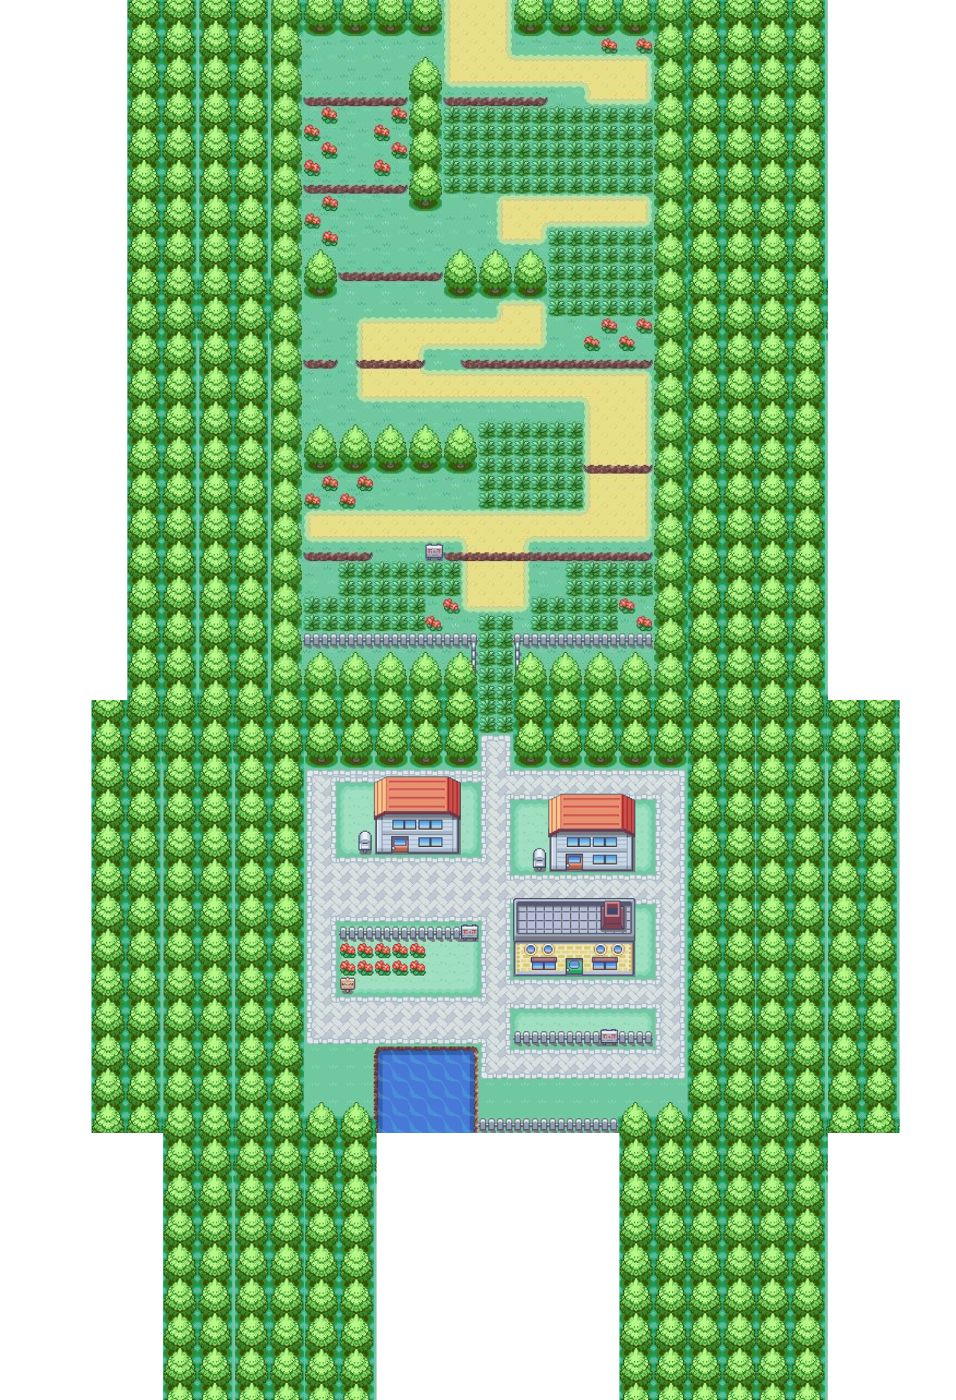
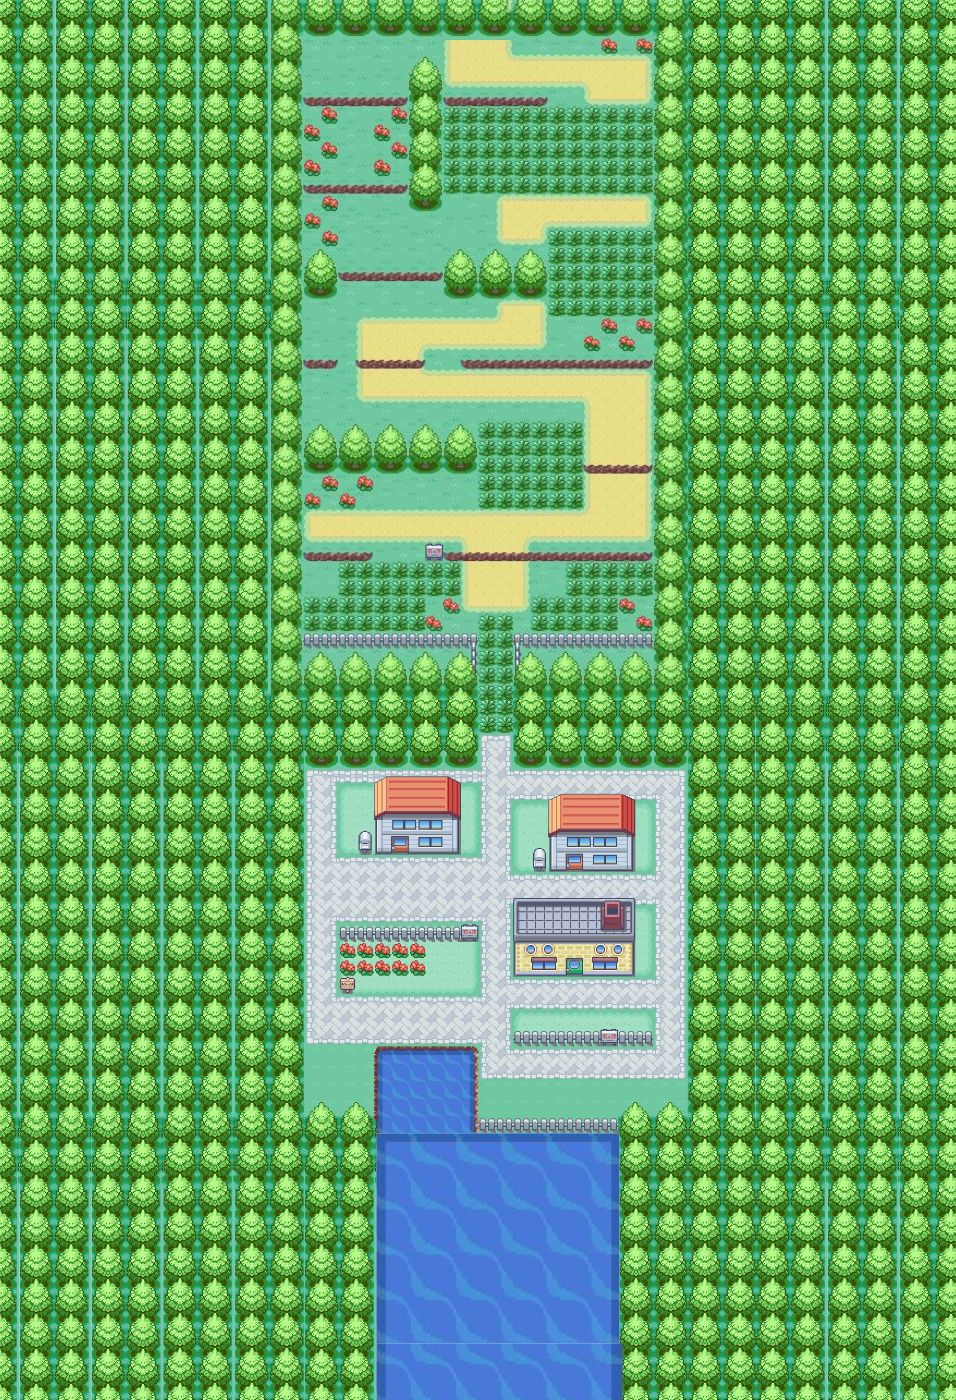
uptdate

diff --git a/player.js b/player.js
@@ -56,56 +56,56 @@ class Player {
 
 
 
-    // moveUp() {
-    //     if(this.movement.up){
-    //         this.y -= this.speed;
-    //         this.yFrame = 3;
-    //         if(this.game.counter % 5 === 0){
-    //             this.xFrame++;
-    //             this.movement.up=false;
-    //             if(this.xFrame > 3){
-    //                 this.xFrame = 0;
-    //             }
-    //         }
-    //     }
-    // }
-    // moveDown() {
-    //     if(this.movement.down){
-    //         this.y += this.speed;
-    //         this.yFrame = 0;
-    //         if(this.game.counter % 5 === 0){
-    //             this.xFrame++;
-    //             this.movement.down=false;
-    //             if(this.xFrame > 3){
-    //                 this.xFrame = 0;
-    //             }
-    //         }
-    //     }       
-    // }
-    // moveLeft() {
-    //     if(this.movement.left){
-    //         this.x -= this.speed;
-    //         this.yFrame = 1;
-    //         if(this.game.counter % 5 === 0){
-    //             this.xFrame++;
-    //             this.movement.left=false;
-    //             if(this.xFrame > 3){
-    //                 this.xFrame = 0;
-    //             }
-    //         }
-    //     }
-    // }
-    // moveRight() {
-    //     if(this.movement.right){
-    //         this.x += this.speed;
-    //         this.yFrame = 2;
-    //         if(this.game.counter % 5 === 0){
-    //             this.xFrame++;
-    //             this.movement.right=false;
-    //             if(this.xFrame > 3){
-    //                 this.xFrame = 0;
-    //             }
-    //         }
-    //     }
-    // }
+    moveUp() {
+        if(this.movement.up){
+            this.y -= this.speed;
+            this.yFrame = 3;
+            if(this.game.counter % 5 === 0){
+                this.xFrame++;
+                this.movement.up=false;
+                if(this.xFrame > 3){
+                    this.xFrame = 0;
+                }
+            }
+        }
+    }
+    moveDown() {
+        if(this.movement.down){
+            this.y += this.speed;
+            this.yFrame = 0;
+            if(this.game.counter % 5 === 0){
+                this.xFrame++;
+                this.movement.down=false;
+                if(this.xFrame > 3){
+                    this.xFrame = 0;
+                }
+            }
+        }       
+    }
+    moveLeft() {
+        if(this.movement.left){
+            this.x -= this.speed;
+            this.yFrame = 1;
+            if(this.game.counter % 5 === 0){
+                this.xFrame++;
+                this.movement.left=false;
+                if(this.xFrame > 3){
+                    this.xFrame = 0;
+                }
+            }
+        }
+    }
+    moveRight() {
+        if(this.movement.right){
+            this.x += this.speed;
+            this.yFrame = 2;
+            if(this.game.counter % 5 === 0){
+                this.xFrame++;
+                this.movement.right=false;
+                if(this.xFrame > 3){
+                    this.xFrame = 0;
+                }
+            }
+        }
+    }
 }

diff --git a/script.js b/script.js
@@ -1,9 +1,10 @@
 const canvas = document.getElementById('canvas');
 const ctx = canvas.getContext('2d');
-// ctx.translate(-350, -1100);
 
-// const scale = 1.5
-// ctx.scale(scale, scale);
+//Scale
+ctx.translate(-350, -1100);
+const scale = 1.5
+ctx.scale(scale, scale);
 
 const game = new Game(ctx, canvas, canvas.width, canvas.height);
 
@@ -12,29 +13,29 @@ game.start();
 document.addEventListener('keydown', (e) => {
     switch (e.keyCode) {
         case 38:
-           // game.player.movement.up = true;
-            //game.player.moveUp();
+           game.player.movement.up = true;
+            game.player.moveUp();
             game.paletBackground.moveUp();
             game.grass.forEach(grass => grass.moveUp());
             game.obstacles.forEach(obs => obs.moveUp());
             break;
         case 40:
-           // game.player.movement.down = true;
-           // game.player.moveDown();
+           game.player.movement.down = true;
+           game.player.moveDown();
             game.paletBackground.moveDown();
             game.grass.forEach(grass => grass.moveDown());
             game.obstacles.forEach(obs => obs.moveDown());
             break;
         case 37:
-            //game.player.movement.left = true;
-            //game.player.moveLeft();
+            game.player.movement.left = true;
+            game.player.moveLeft();
             game.paletBackground.moveLeft();
             game.grass.forEach(grass => grass.moveLeft());
             game.obstacles.forEach(obs => obs.moveLeft());
             break;
         case 39:
-           // game.player.movement.right = true;
-           // game.player.moveRight();
+           game.player.movement.right = true;
+           game.player.moveRight();
             game.paletBackground.moveRight();
             game.grass.forEach(grass => grass.moveRight());
             game.obstacles.forEach(obs => obs.moveRight());

diff --git a/game.js b/game.js
@@ -8,12 +8,15 @@ class Game {
         this.player = new Player(this.ctx, this, 'Ash', 'Pokemon Trainer');
         this.counter = 0;
 
+        //movimiento
+        this.isMoving = true;
+
         //grilla
         this.grill = new Grill(this.ctx);
         //Static Obstacules
         this.obstacles = [
-            new StaticObstacules(this.ctx, this, 0, 0, 300, this.ctx.canvas.height),
-            new StaticObstacules(this.ctx, this, 700, 0, 300, this.ctx.canvas.height),
+            new StaticObstacules(this.ctx, this, 0, 0, 300, 2000),
+            new StaticObstacules(this.ctx, this, 700, 0, 300, 2000),
             new StaticObstacules(this.ctx, this, 300, 0, 400, 40),
             new StaticObstacules(this.ctx, this, 650, 40, 50, 600),
             new StaticObstacules(this.ctx, this, 410, 60, 30, 150),
@@ -90,8 +93,8 @@ class Game {
         this.obstacles.some((obs) => {
             const checkObstacleColision = obs.colision(this.player);
             if (checkObstacleColision) {
-                this.player.isBlocked = true;
-                this.player.reset();
+                this.isMoving = false;
+
             }
         })
     }
@@ -100,7 +103,7 @@ class Game {
         this.grass.some((grass) => {
             const checkGrassColision = grass.findPokemon(this.player);
             if (checkGrassColision) {
-                this.player.isBlocked = false;
+                
             }
         })
     }

diff --git a/staticObstacles.js b/staticObstacles.js
@@ -10,7 +10,9 @@ class StaticObstacules{
     }
 
     draw(){
-        this.ctx.fillStyle = 'rgba(0,0,0,0.5)';
+        //this.ctx.fillStyle = 'rgba(0,0,0,0.5)';
+        this.ctx.fillStyle = 'transparent';
+
         this.ctx.fillRect(this.x, this.y, this.width, this.height);
     }
     
@@ -23,22 +25,22 @@ class StaticObstacules{
     }
     //move
     moveUp() {
-        if(!this.game.player.isBlocked){
+        if(this.game.isMoving){
             this.y += this.speed;
         }
     }
     moveDown() {    
-        if(!this.game.player.isBlocked){
+        if(this.game.isMoving){
             this.y -= this.speed;
         }
     }
     moveLeft() {    
-        if(!this.game.player.isBlocked){
+        if(this.game.isMoving){
             this.x += this.speed;
         }
     }
     moveRight() {
-        if(!this.game.player.isBlocked){
+        if(this.game.isMoving){
             this.x -= this.speed;
         }
     }

diff --git a/grass.js b/grass.js
@@ -12,28 +12,29 @@ class Grass {
     }
 
     draw() {
-        this.ctx.fillStyle = 'rgba(0,255,0,0.5)';
+        //this.ctx.fillStyle = 'rgba(0,255,0,0.5)';
+        this.ctx.fillStyle = 'rgba(transparent)';
         this.ctx.fillRect(this.x, this.y, this.width, this.height);
     }
  
     //move
     moveUp() {
-        if (!this.game.player.isBlocked) {
+        if(this.game.isMoving){
             this.y += this.speed;
         }
     }
-    moveDown() {
-        if (!this.game.player.isBlocked) {
+    moveDown() {    
+        if(this.game.isMoving){
             this.y -= this.speed;
         }
     }
-    moveLeft() {
-        if (!this.game.player.isBlocked) {
+    moveLeft() {    
+        if(this.game.isMoving){
             this.x += this.speed;
         }
     }
     moveRight() {
-        if (!this.game.player.isBlocked) {
+        if(this.game.isMoving){
             this.x -= this.speed;
         }
     }

diff --git a/backgrounds/paletBackground.js b/backgrounds/paletBackground.js
@@ -24,22 +24,22 @@ class PaletBackground {
 
     //move
     moveUp() {
-        if(!this.game.player.isBlocked){
+        if(this.game.isMoving){
             this.y += this.speed;
         }
     }
     moveDown() {    
-        if(!this.game.player.isBlocked){
+        if(this.game.isMoving){
             this.y -= this.speed;
         }
     }
     moveLeft() {    
-        if(!this.game.player.isBlocked){
+        if(this.game.isMoving){
             this.x += this.speed;
         }
     }
     moveRight() {
-        if(!this.game.player.isBlocked){
+        if(this.game.isMoving){
             this.x -= this.speed;
         }
     }

diff --git a/index.html b/index.html
@@ -8,8 +8,8 @@
     <title>Pokemon</title>
 </head>
 <body>
-    <!-- debbe ser de width="700" height="600"-->
-    <canvas id="canvas" width="1500" height="1500"></canvas>
+    <!-- debbe ser de width="700" height="600 para desarrollo es width="1500" height="1500"-->
+    <canvas id="canvas" width="700" height="600"></canvas>
 </body>
 <script src="./backgrounds/paletBackground.js"></script>
 <script src="./player.js"></script>
